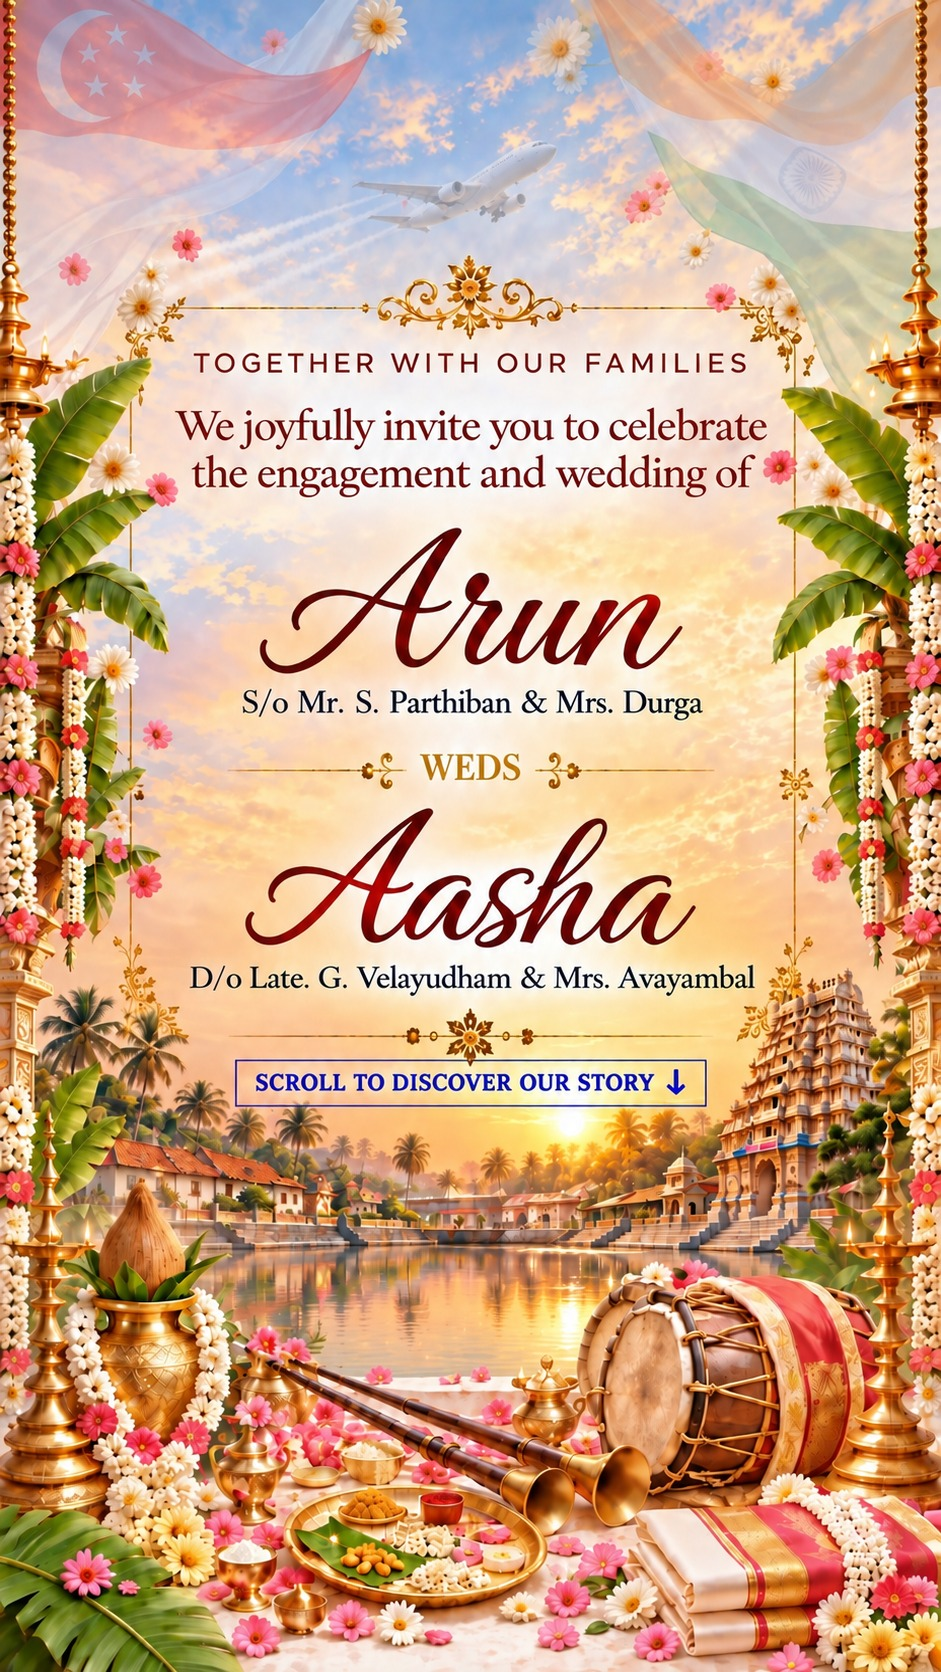
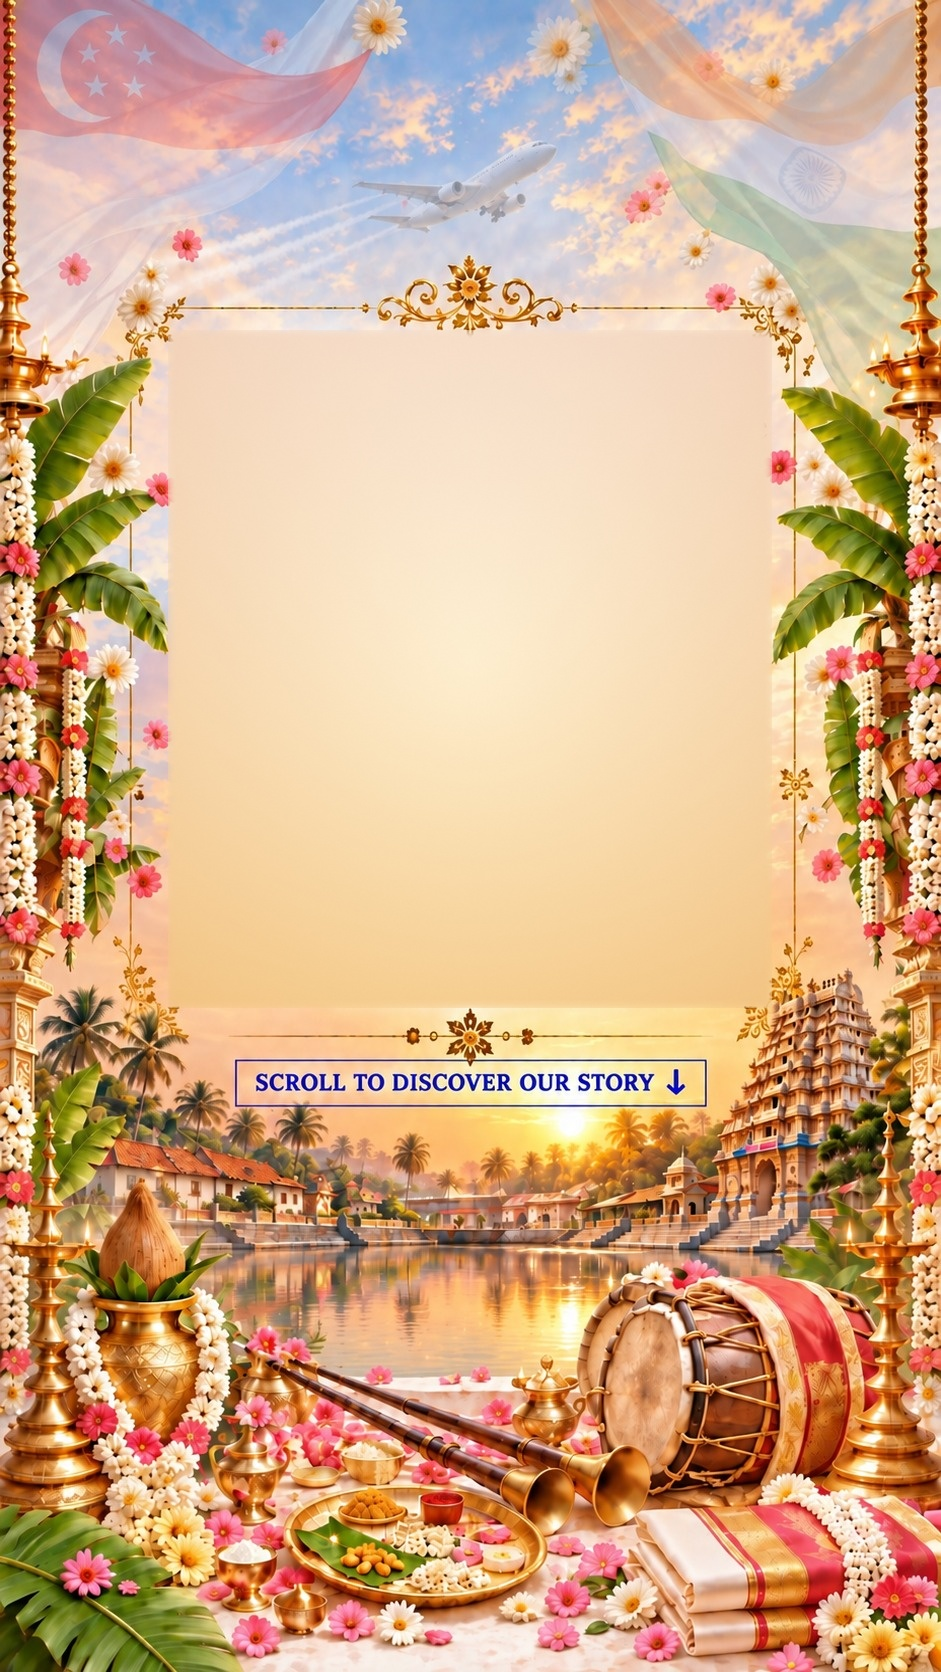
Refine UX: enhance Open Invitation readability, remove hero card container, update Dear Guest font, remove Tamil text from timeline background

Changed region(s): [[0.1541, 0.1866, 0.8321, 0.622], [0.1849, 0.4354, 0.2465, 0.4665], [0.8013, 0.4043, 0.8321, 0.4354]]

diff --git a/src/components/VideoThemeInvitation.vue b/src/components/VideoThemeInvitation.vue
@@ -622,7 +622,7 @@ section.reveal-section.in-view > * {
   text-align: center;
   color: white;
   width: min(720px, 92vw);
-  padding: 25px;
+  padding: 30px 20px;
   transition: opacity 0.55s ease, transform 0.65s ease;
 }
 
@@ -633,50 +633,61 @@ section.reveal-section.in-view > * {
 
 .entry-kicker {
   font-family: 'Cormorant Garamond', serif;
-  font-size: clamp(17px, 3vw, 27px);
-  letter-spacing: 2.5px;
-  text-shadow: 0 2px 20px #000;
-  margin-bottom: 10px;
+  font-size: clamp(22px, 4.2vw, 34px);
+  font-weight: 600;
+  letter-spacing: 3px;
+  color: #fff6df;
+  text-shadow: 0 2px 14px rgba(0, 0, 0, 0.95), 0 0 24px rgba(0, 0, 0, 0.85);
+  margin-bottom: 14px;
 }
 
 .entry-kicker-sub {
-  font-size: clamp(15px, 2.5vw, 22px);
-  margin-bottom: 28px;
+  font-size: clamp(20px, 3.6vw, 28px);
+  font-weight: 500;
+  letter-spacing: 2px;
+  color: #faebd0;
+  margin-bottom: 34px;
+  text-shadow: 0 2px 14px rgba(0, 0, 0, 0.95), 0 0 24px rgba(0, 0, 0, 0.85);
 }
 
 .entry-title {
   font-family: 'Bodoni Moda', serif;
-  font-size: clamp(44px, 8vw, 78px);
-  line-height: 1.02;
-  margin: 0 0 26px;
-  color: #f5dfaa;
-  text-shadow: 0 4px 25px #000;
+  font-size: clamp(54px, 11vw, 92px);
+  font-weight: 700;
+  line-height: 1.05;
+  margin: 0 0 28px;
+  color: #ffe9b8;
+  letter-spacing: 1px;
+  text-shadow: 0 4px 28px rgba(0, 0, 0, 0.95), 0 0 35px rgba(0, 0, 0, 0.85);
 }
 
 .open-btn {
-  border: 1px solid #f4d78e;
-  background: linear-gradient(135deg, #f5d990, #bd8327);
-  color: #3a200e;
-  padding: 15px 36px;
+  border: 1.5px solid #ffe199;
+  background: linear-gradient(135deg, #f7df9e, #c68c2d);
+  color: #271407;
+  padding: 16px 42px;
   border-radius: 999px;
   cursor: pointer;
-  letter-spacing: 1.5px;
-  font-size: 12px;
-  font-weight: 600;
-  box-shadow: 0 10px 32px rgba(0, 0, 0, 0.38);
+  letter-spacing: 2.2px;
+  font-size: 14px;
+  font-weight: 700;
+  box-shadow: 0 12px 36px rgba(0, 0, 0, 0.6);
   transition: transform 0.25s, box-shadow 0.25s;
 }
 
 .open-btn:hover {
   transform: translateY(-2px);
-  box-shadow: 0 14px 36px rgba(0, 0, 0, 0.46);
+  box-shadow: 0 16px 42px rgba(0, 0, 0, 0.7);
 }
 
 .entry-hint {
-  margin-top: 13px;
-  font-size: 10px;
-  letter-spacing: 1.5px;
-  opacity: 0.76;
+  margin-top: 16px;
+  font-size: 13px;
+  letter-spacing: 2px;
+  font-weight: 500;
+  color: #fff2d6;
+  text-shadow: 0 2px 10px rgba(0, 0, 0, 0.9);
+  opacity: 0.92;
 }
 
 /* ══════════════════════════════════════════════════════════════════════════
@@ -719,76 +730,83 @@ section.reveal-section.in-view > * {
    1. HERO SECTION
    ══════════════════════════════════════════════════════════════════════════ */
 .hero {
+  position: relative;
   display: grid;
   place-items: center;
   text-align: center;
   color: var(--ink);
   background: url('/images/original-assets/hero-new.jpg') center top / cover no-repeat;
-  padding: 20px 0;
+  padding: 60px 0 40px;
+  min-height: 100vh;
 }
 
 .hero-inner {
   position: relative;
   z-index: 2;
-  width: min(960px, 92vw);
-  padding: 58px 24px;
-  border: 1px solid rgba(178, 132, 48, 0.5);
-  border-radius: 34px;
-  background: rgba(255, 249, 237, 0.76);
-  backdrop-filter: blur(3px);
-  -webkit-backdrop-filter: blur(3px);
-  box-shadow: 0 22px 70px rgba(39, 44, 60, 0.18);
+  width: min(840px, 94vw);
+  padding: 30px 16px;
+  /* Card background removed so background image is clearly visible */
+  background: transparent;
+  border: none;
+  border-radius: 0;
+  box-shadow: none;
+  backdrop-filter: none;
+  -webkit-backdrop-filter: none;
 }
 
 .eyebrow {
   font-family: 'Montserrat', sans-serif;
-  font-size: 10px;
-  letter-spacing: 4px;
+  font-size: clamp(12px, 2.4vw, 15px);
+  letter-spacing: 5px;
   text-transform: uppercase;
-  color: #244b70;
-  font-weight: 600;
+  color: #173a63;
+  font-weight: 700;
+  text-shadow: 0 1px 2px rgba(255, 255, 255, 0.8);
 }
 
 .hero-copy {
   font-family: 'Playfair Display', serif;
-  font-size: clamp(22px, 4vw, 36px);
-  line-height: 1.28;
-  margin: 22px auto 14px;
-  max-width: 760px;
-  color: #234b72;
-  text-shadow: 0 1px 0 rgba(255, 255, 255, 0.7);
+  font-size: clamp(24px, 4.6vw, 40px);
+  line-height: 1.32;
+  margin: 22px auto 16px;
+  max-width: 720px;
+  color: #4b1830;
+  font-weight: 600;
+  text-shadow: 0 1px 2px rgba(255, 255, 255, 0.85);
 }
 
 .names {
   font-family: 'Allura', cursive;
-  font-size: clamp(72px, 12vw, 126px);
+  font-size: clamp(84px, 16vw, 140px);
   font-weight: 400;
-  letter-spacing: 0.5px;
+  letter-spacing: 1px;
   line-height: 0.88;
-  color: #9f3547;
-  text-shadow: 0 2px 0 rgba(255, 255, 255, 0.7), 0 7px 22px rgba(83, 42, 30, 0.20);
-  margin: 8px 0;
+  color: #8c2035;
+  text-shadow: 0 2px 4px rgba(255, 255, 255, 0.9), 0 4px 18px rgba(140, 32, 53, 0.15);
+  margin: 14px 0;
 }
 
 .names .weds {
   display: block;
   font-family: 'Playfair Display', serif;
-  font-size: 0.30em;
-  font-weight: 600;
-  letter-spacing: 4px;
-  margin: 8px 0 5px;
-  color: #c08a2d;
+  font-size: 0.26em;
+  font-weight: 700;
+  letter-spacing: 5px;
+  margin: 12px 0 8px;
+  color: #9a6a18;
   text-transform: uppercase;
+  text-shadow: 0 1px 2px rgba(255, 255, 255, 0.9);
 }
 
 .parents {
   font-family: 'Cormorant Garamond', serif;
-  font-size: clamp(15px, 2.5vw, 20px);
-  line-height: 1.25;
-  letter-spacing: 0.2px;
-  color: #3f5365;
-  text-shadow: 0 1px 0 rgba(255, 255, 255, 0.65);
-  margin: 4px auto 9px;
+  font-size: clamp(18px, 3.2vw, 24px);
+  font-weight: 600;
+  line-height: 1.35;
+  letter-spacing: 0.5px;
+  color: #2b1f1a;
+  text-shadow: 0 1px 3px rgba(255, 255, 255, 0.95);
+  margin: 6px auto 14px;
 }
 
 .parents span {
@@ -796,19 +814,23 @@ section.reveal-section.in-view > * {
 }
 
 .hero-date {
-  font-size: 12px;
+  font-family: 'Montserrat', sans-serif;
+  font-size: 14px;
   letter-spacing: 4px;
-  color: #8f6421;
-  margin-top: 18px;
-  font-weight: 600;
+  color: #7d4d12;
+  margin-top: 24px;
+  font-weight: 700;
+  text-shadow: 0 1px 2px rgba(255, 255, 255, 0.9);
 }
 
 .discover {
-  margin-top: 36px;
-  font-size: 10px;
-  letter-spacing: 2px;
-  color: #315676;
-  opacity: 0.85;
+  margin-top: 40px;
+  font-size: 11px;
+  letter-spacing: 2.5px;
+  font-weight: 700;
+  color: #173a63;
+  opacity: 0.92;
+  text-shadow: 0 1px 2px rgba(255, 255, 255, 0.9);
 }
 
 /* ══════════════════════════════════════════════════════════════════════════
@@ -1191,13 +1213,15 @@ section.reveal-section.in-view > * {
 }
 
 .guest-message {
-  font-family: 'Playfair Display', serif;
-  font-style: italic;
-  font-size: clamp(19px, 3.2vw, 24px);
-  line-height: 1.55;
-  color: #2b4865;
+  font-family: 'Cormorant Garamond', serif;
+  font-size: clamp(21px, 3.6vw, 27px);
+  font-weight: 500;
+  line-height: 1.58;
+  color: #3b2a2d;
   max-width: 650px;
   margin: 24px auto;
+  letter-spacing: 0.3px;
+  text-shadow: 0 1px 1px rgba(255, 255, 255, 0.7);
 }
 
 .signature {
@@ -1297,30 +1321,38 @@ section.reveal-section.in-view > * {
    ══════════════════════════════════════════════════════════════════════════ */
 @media (max-width: 700px) {
   .hero-inner {
-    width: calc(100vw - 24px);
-    padding: 42px 14px;
-    border-radius: 26px;
-    background: rgba(255, 249, 237, 0.82);
+    width: 100%;
+    padding: 24px 10px;
+    background: transparent;
+    border: none;
+    border-radius: 0;
+    box-shadow: none;
+  }
+
+  .eyebrow {
+    font-size: 11px;
+    letter-spacing: 4px;
   }
 
   .hero-copy {
     font-size: clamp(20px, 5.5vw, 28px);
+    margin: 16px auto 12px;
   }
 
   .names {
-    font-size: clamp(66px, 18vw, 98px);
-    line-height: 0.86;
+    font-size: clamp(74px, 20vw, 110px);
+    line-height: 0.88;
   }
 
   .names .weds {
-    font-size: 0.28em;
-    letter-spacing: 3px;
-    margin: 7px 0 4px;
+    font-size: 0.26em;
+    letter-spacing: 4px;
+    margin: 8px 0 6px;
   }
 
   .parents {
-    font-size: 15px;
-    line-height: 1.25;
+    font-size: 16px;
+    line-height: 1.3;
   }
 
   .date-section,
@@ -1402,7 +1434,7 @@ section.reveal-section.in-view > * {
   }
 
   .guest-message {
-    font-size: 19px;
+    font-size: 21px;
     line-height: 1.5;
   }
 
